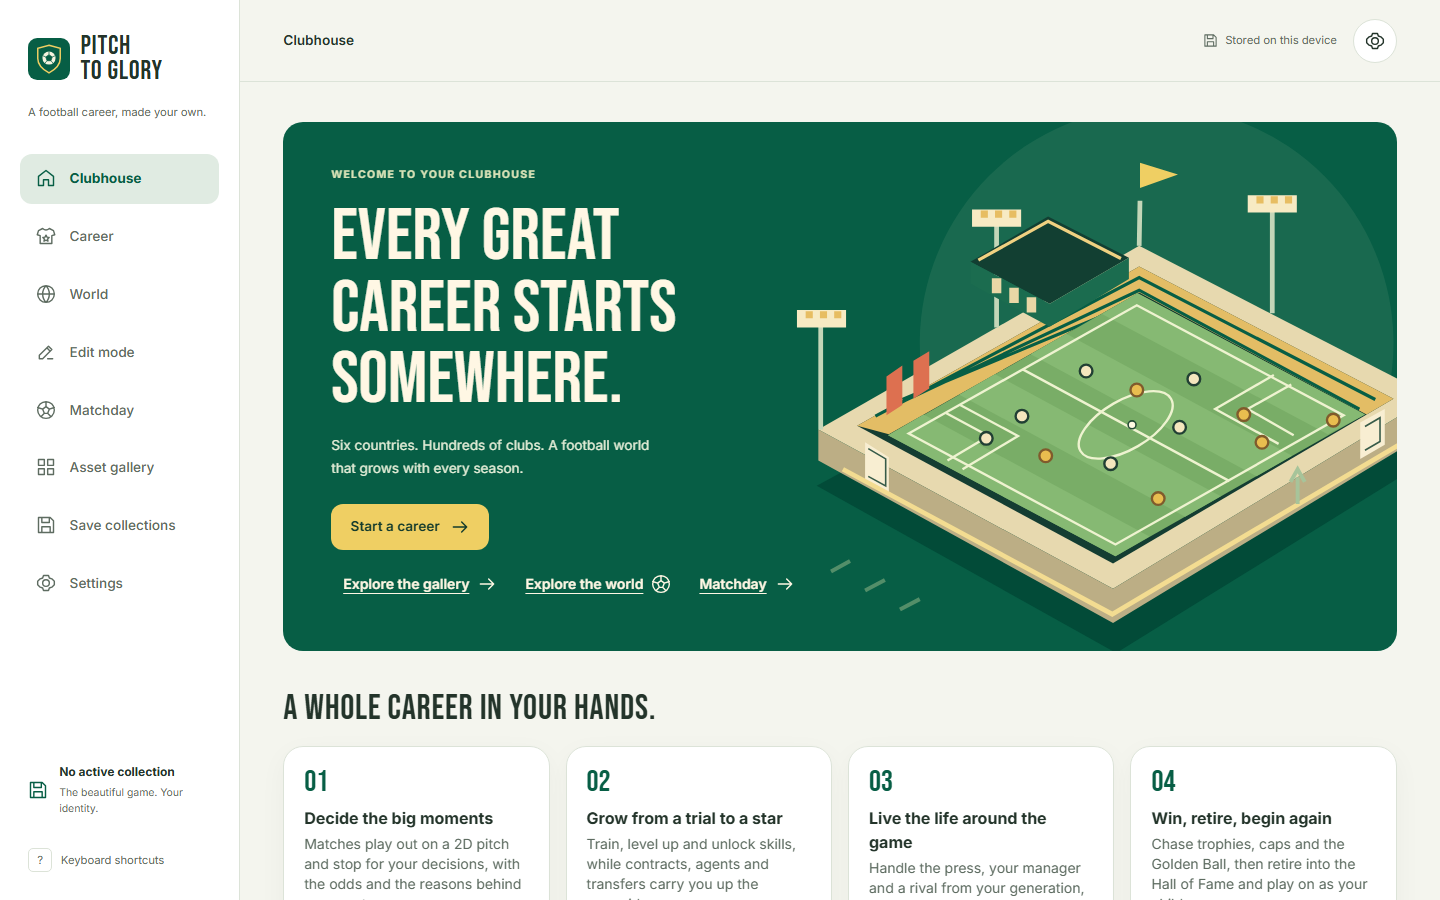
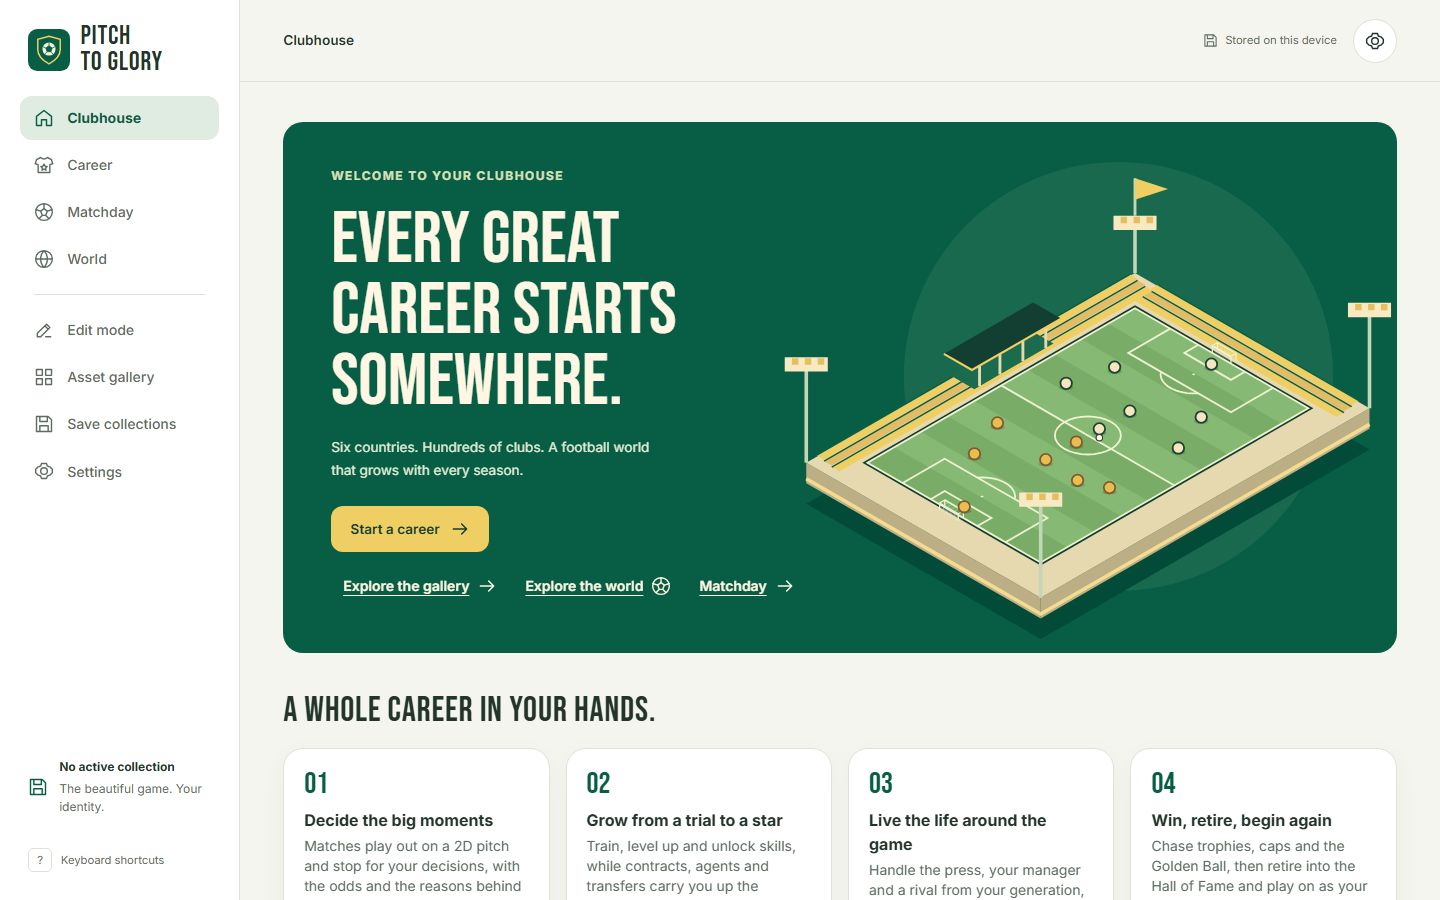
Refresh the README for Phases 4–6 and skip device checks for now
The README's top image showed the stadium from before its redraw; it is
recaptured from the current title screen. The README now covers
formation-aware selection, the coach's advice and the manager's
challenge, the soak and scheduled endurance and performance checks,
save schema 16 and 330 unit tests, and ticks the finished plan phases.

Physical-device acceptance is skipped until further notice, as decided
on 2026-10-08; the plan, the checklist and the verification notes say so.

diff --git a/README.md b/README.md
@@ -71,6 +71,8 @@ The hub puts the next action first. _Needs you_ lists what is waiting, most urge
 
 - **Play the moments that matter.** 6–15 key moments a match, depending on your role and form: chances in the box, build-up play, crosses, aerial duels, last-ditch defending and, for keepers, saves and distribution, each a situation drawn on the pitch. Half-time talks with the manager, substitutions and captain's calls.
 - **Grow from a trial to a star.** XP from every match, attribute points against age-adjusted soft caps, a 49-skill tree that changes the odds and unlocks new choices, weekly training plans and injuries that need managing. Players peak in their late twenties; pace goes first, experience keeps rising.
+- **Earn your place.** Managers pick their eleven for their formation (4-3-3, 4-4-2, 4-2-3-1 or 3-5-2), weighing how well each player fits each position, and the hub explains your selection: your slot and familiarity, who is ahead of you, and what raises or lowers your chance of starting.
+- **Get coached.** The coach reads the pattern in your recent key decisions, says which attribute governed the misses and turns it into training sessions. Accept a season goal and the manager may set you a six-week challenge towards it: meet it and their trust grows, miss it and it costs a little, and either way it is written into your Chronicle.
 - **Build a career off the pitch.** Contracts with role promises and clauses, agents, scouting interest, multi-step transfer negotiations and loans. Press conferences and a social feed, teammate chemistry, dressing-room groups, culture fit, and a rival from your generation tracked against you.
 - **Live the life.** Fame levels, sponsors with obligations, cars, homes and investments, a wardrobe of boots, socks and armbands, signature celebrations that play on the pitch, and daily and weekly cosmetic challenges.
 - **Win everything.** Domestic cups, a Champions Cup and a Shield with groups and knockouts, call-ups from Under-19 to senior level, tournaments every two years, and a Golden Ball ceremony.
@@ -120,7 +122,7 @@ flowchart LR
 
 - **A pure engine.** Everything that decides results lives in `src/engine/`: plain, deterministic TypeScript with a seedable RNG and no browser globals or imports (enforced by lint). The same code runs in the UI, in Web Workers and in Node tests, so any career or match replays exactly from its seed.
 - **Workers for heavy work.** Season simulation and save validation run off the main thread, with progress and cancellation, so the interface never freezes.
-- **Saves you can trust.** Versioned save schema (now 14) with migrations from every earlier version, strict validation of every record, revision checks, and one browser tab per save slot.
+- **Saves you can trust.** Versioned save schema (now 16) with migrations from every earlier version, strict validation of every record, revision checks, and one browser tab per save slot.
 - **Code-split by route.** Each screen is its own chunk; PixiJS, the save system, audio and animation features load only when needed.
 
 ### The match engine is calibrated
@@ -155,7 +157,7 @@ xychart-beta
 
 ```mermaid
 flowchart LR
-  Push["Push to main"] --> Verify["verify (Linux)<br/>Prettier · ESLint · 295 unit tests<br/>typecheck · build · bundle budget"]
+  Push["Push to main"] --> Verify["verify (Linux)<br/>Prettier · ESLint · 330 unit tests<br/>one-season soak · typecheck<br/>build · bundle budget"]
   Verify --> C["Chromium journeys<br/>(Windows)"]
   Verify --> F["Firefox journeys<br/>(Windows)"]
   Verify --> W["WebKit journeys<br/>(Windows)"]
@@ -164,7 +166,7 @@ flowchart LR
   W --> Deploy
 ```
 
-Every push to `main` is formatted, linted, unit-tested, type-checked and built, then played through in Chromium, Firefox and WebKit under the production security headers before it deploys. Pull requests run the same checks without deploying. Both GitHub Actions and Cloudflare Pages are free for this public repository. See [deploying](docs/DEPLOY.md).
+Every push to `main` is formatted, linted, unit-tested, type-checked, played for a full simulated season and built, then played through in Chromium, Firefox and WebKit under the production security headers, with an update from one deployed build to the next, before it deploys. Pull requests run the same checks without deploying. Scheduled workflows go further: a nightly five-season soak replayed twice for identical results, a weekly two-generation career, and weekly performance checks on real late-career saves on desktop and throttled phone profiles. Both GitHub Actions and Cloudflare Pages are free for this public repository. See [deploying](docs/DEPLOY.md).
 
 ## Tech stack
 
@@ -196,6 +198,7 @@ npm run build        # typecheck, production build, per-route bundle budget
 npx playwright install chromium firefox webkit
 npm run test:e2e     # browser journeys under the production headers
 npm run audit        # Lighthouse quality targets
+npm run soak -- --seasons 1   # play a whole career season and check its invariants
 ```
 
 On Windows PowerShell with blocked script shims, use `npm.cmd` and `npx.cmd`. Browser tests start a production preview on port 4173; Lighthouse uses 4180. After changing `public/share.svg` or the icons, run `npm run raster` to regenerate their PNG copies.
@@ -236,9 +239,9 @@ After the web release, a [high-value improvements plan](docs/superpowers/plans/2
 - [x] Trustworthy results, statistics, awards, trophies and legacies
 - [x] Key moments that keep the situation in view on desktop and phone
 - [x] Grouped career navigation, a prioritized hub and a personal calendar
-- [ ] Multi-generation endurance tests and performance gates on real play states
-- [ ] Formation-aware selection, positions and coaching advice
-- [ ] One sustained story arc: a manager's development promise
+- [x] Multi-generation endurance tests and performance gates on real play states
+- [x] Formation-aware selection, positions and coaching advice
+- [x] One sustained story arc: a manager's development promise
 
 ## Documentation
 

diff --git a/docs/superpowers/plans/2026-10-07-high-value-improvements.md b/docs/superpowers/plans/2026-10-07-high-value-improvements.md
@@ -6,7 +6,7 @@
 
 **Stack:** Existing TypeScript, React 18, Vite, React Router, Zustand, PixiJS, Tailwind, Framer Motion, Dexie, Vitest and Playwright. No new runtime dependency is required by this plan.
 
-**Status:** Phases 1–3, 5 and 6 complete; Phase 4 complete except physical-device acceptance (deferred to the end). The review in [PROJECT-REVIEW.md](../../PROJECT-REVIEW.md) is the evidence base; [AGENTS.md](../../../AGENTS.md) remains the product authority.
+**Status:** Phases 1–6 complete. Physical-device acceptance (Phase 4.2) is skipped until further notice (decision of 2026-10-08). The review in [PROJECT-REVIEW.md](../../PROJECT-REVIEW.md) is the evidence base; [AGENTS.md](../../../AGENTS.md) remains the product authority.
 
 ## Scope and approach
 
@@ -200,7 +200,7 @@ Keep the green/gold identity, existing country profiles and browser-first archit
 - [x] Record Lighthouse performance/accessibility, interactive readiness, input-to-next-paint, long tasks, renderer frame pacing and browser memory where available. Run audits without concurrent browser/season jobs.
 - [x] Use release targets from AGENTS.md: desktop Lighthouse >90, mobile >85, accessibility >95, initial JavaScript <300 KB gzip and interactive readiness <3 seconds on the agreed phone/4G profile. Aim for 60 fps on the target laptop and phone; persist the hardware/profile used so comparisons are meaningful.
 - [x] Run the fast route budget on each change, populated audits on a serialized scheduled/release job, and upload results. Fail gates rather than hiding regressions through repeated averaging.
-- [ ] Add manual acceptance for Safari macOS/iOS and a mid-range Android browser: IndexedDB storage pressure, install/offline, audio gesture unlock, background/resume, large text, touch decisions and sustained rendering. Manual results require a real device run, not an automated tick. _(Checklist in `docs/DEVICE-ACCEPTANCE.md`; results need real devices and are not yet recorded.)_
+- [ ] Add manual acceptance for Safari macOS/iOS and a mid-range Android browser: IndexedDB storage pressure, install/offline, audio gesture unlock, background/resume, large text, touch decisions and sustained rendering. Manual results require a real device run, not an automated tick. _(Checklist in `docs/DEVICE-ACCEPTANCE.md`; the device runs are skipped until further notice (decision of 2026-10-08), so no results are recorded.)_
 - [x] Cover an old build receiving a new service worker while a saved career is active, checkpointing safely, reloading and continuing offline. Reuse the existing update manager; add an actual two-build journey.
 
 **Done** apart from device acceptance: see `docs/VERIFICATION.md`, Phase 4. Interaction latency uses Event Timing durations as a stand-in for INP.

diff --git a/docs/VERIFICATION.md b/docs/VERIFICATION.md
@@ -555,7 +555,7 @@ Measured on Windows 11 with Node 24 and Playwright Chromium, nothing else runnin
 - **Lighthouse on loaded careers.** `npm run audit -- --populated` imports each fixture into a browser profile through the Saves screen, then audits the hub, calendar and inbox in that browser. The first run found a layout shift of 0.89 on every career page opened from a save: the section tabs appeared only after the save loaded and pushed the page down. They now render while it loads; scores went from 73–77 to 98–100 (accessibility 100). These audits load the app from the service worker, as a returning player does; the entry-page audits cover first visits.
 - **A Back race.** With the tabs rendering during loading, the full browser suite exposed a race in WebKit: the sidebar, bottom bar and More sheet linked to bare paths, the career page then added `?save=` by replacing the history entry, and a Back pressed in that moment landed on the replaced entry, so Back seemed to do nothing. Shell links to the career, Matchday and the world now carry the save themselves (12 of 12 repeated WebKit runs passed).
 - **Two-build update.** `npm run test:update` builds a second release, and `e2e/update.spec.ts` serves the first, advances a saved career, replaces the build at the same address, accepts "Save & update", checks the new build is running with the career at the same week, then reloads offline and opens the match. CI runs it in the Chromium job. Run in parallel, it failed about half the time, which exposed a real defect: when the new service worker was found while the page was starting, the update library treated it as external, so after "Save & update" the worker took control but the page never reloaded and kept running the old build. The prompt now also reloads (once, safely) when the controller changes; 15 of 15 parallel runs passed, and `tests/pwa.test.tsx` checks the reload happens once when both paths ask.
-- **Physical devices.** The checklist is [DEVICE-ACCEPTANCE.md](DEVICE-ACCEPTANCE.md); no device results are recorded yet, so this part of the phase is open.
+- **Physical devices.** The checklist is [DEVICE-ACCEPTANCE.md](DEVICE-ACCEPTANCE.md); the device runs are skipped until further notice (decision of 2026-10-08), so no results are recorded.
 
 ## Phase 5 verification (formations, selection and coaching)
 

diff --git a/docs/DEVICE-ACCEPTANCE.md b/docs/DEVICE-ACCEPTANCE.md
@@ -5,6 +5,9 @@ audio, input or rendering (Phase 4.2 of the [improvement plan](superpowers/plans
 Automated browser engines cannot stand in for these: a result counts only when a person has
 run it on the named device, and records the date, build and anything that went wrong.
 
+**Status:** these checks are skipped until further notice (decision of 2026-10-08). Releases ship on the automated
+Chromium, Firefox and WebKit coverage alone until the checks are picked up again.
+
 ## Devices
 
 | Device                  | Browser                     | Why                                                |
@@ -47,4 +50,4 @@ device; "Pass" needs the build (commit) it was run against.
 
 | Date | Build | Device and browser | Checks run | Result and notes |
 | ---- | ----- | ------------------ | ---------- | ---------------- |
-|      |       |                    |            | Not yet run      |
+|      |       |                    |            | Skipped for now  |
